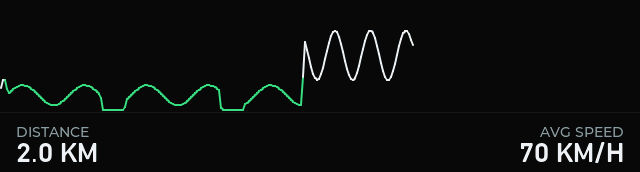
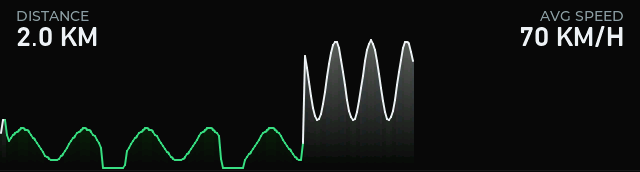
PWR graph: full screen with a gradient under the line, stats on top
Claude-Session: https://claude.ai/code/session_01Wi2gejHosTK5x8mYaniNJT

diff --git a/firmware/src/ui/efficiency_ui.cpp b/firmware/src/ui/efficiency_ui.cpp
@@ -19,16 +19,24 @@ constexpr int16_t kEdgeMargin = 16;
 // was electric (regen included -- it is drawn at zero, but it is the pack's
 // time), white where the engine was driving. PwrHistory keeps the session in
 // kCapacity points however long it runs, so each point gets kPointStepX
-// pixels and a full buffer spans the screen edge to edge.
+// pixels and a full buffer spans the screen edge to edge. The plot takes the
+// whole screen; the stats sit over its top corners.
 constexpr int16_t kPointStepX = kScreenW / PwrHistory::kCapacity;
-constexpr int16_t kGraphTop = 10;
-constexpr int16_t kGraphBase = 110; // y of a zero reading
+constexpr int16_t kGraphTop = 8;
+constexpr int16_t kGraphBase = 168; // y of a zero reading
 constexpr int16_t kLineW = 2;
 
-// Stat rows, unchanged from the split layout: montserrat_14 captions over
-// dinnext_28_stat values, in the two bottom corners.
-constexpr int16_t kStatCaptionY = 124;
-constexpr int16_t kStatValueY = 142;
+// The area under the line fades from kFillMaxMix (0..255 share of the line's
+// colour, at the plot's top) down to the plain background at the zero line.
+// The fade is tied to screen height, not to each column's own height, so the
+// whole area reads as one gradient. LVGL 8.3 has no per-stop opacity, but the
+// background is a solid colour, so mixing towards it gives the same result.
+constexpr uint8_t kFillMaxMix = 120;
+
+// Stat rows: montserrat_14 captions over dinnext_28_stat values, in the two
+// top corners.
+constexpr int16_t kStatCaptionY = 8;
+constexpr int16_t kStatValueY = 26;
 
 lv_obj_t *g_graph = nullptr;
 lv_obj_t *g_distanceValue = nullptr;
@@ -82,9 +90,43 @@ bool electric(const PwrHistory::Bucket &b) {
     return b.evPct >= 50;
 }
 
-// One segment per pair of neighbouring points, coloured by the point it runs
-// into, so the colour changes exactly where the drive mode did. Round caps
-// close the joints between segments of different slope.
+lv_color_t colorOf(const PwrHistory::Bucket &b) {
+    return electric(b) ? Colors::kEvGreen : Colors::kPwrWhite;
+}
+
+// One gradient column per point, from the line down to the zero line.
+void drawFill(lv_draw_ctx_t *ctx, const lv_area_t &origin, int i, const PwrHistory::Bucket &b) {
+    lv_point_t p = pointAt(origin, i, b);
+    lv_coord_t base = static_cast<lv_coord_t>(origin.y1 + kGraphBase);
+    if (p.y >= base) return; // nothing under a zero reading
+
+    lv_area_t col;
+    col.x1 = static_cast<lv_coord_t>(origin.x1 + i * kPointStepX);
+    col.x2 = static_cast<lv_coord_t>(col.x1 + kPointStepX - 1);
+    col.y1 = p.y;
+    col.y2 = base;
+
+    uint8_t mix = static_cast<uint8_t>(static_cast<int32_t>(kFillMaxMix) * (base - p.y) /
+                                       (kGraphBase - kGraphTop));
+    lv_color_t top = lv_color_mix(colorOf(b), Colors::kBg, mix);
+
+    lv_draw_rect_dsc_t dsc;
+    lv_draw_rect_dsc_init(&dsc);
+    dsc.bg_opa = LV_OPA_COVER;
+    dsc.bg_color = top;
+    dsc.bg_grad.dir = LV_GRAD_DIR_VER;
+    dsc.bg_grad.stops_count = 2;
+    dsc.bg_grad.stops[0].color = top;
+    dsc.bg_grad.stops[0].frac = 0;
+    dsc.bg_grad.stops[1].color = Colors::kBg;
+    dsc.bg_grad.stops[1].frac = 255;
+    lv_draw_rect(ctx, &dsc, &col);
+}
+
+// The gradient first, then the line over it: one segment per pair of
+// neighbouring points, coloured by the point it runs into, so the colour
+// changes exactly where the drive mode did. Round caps close the joints
+// between segments of different slope.
 void drawGraph(lv_event_t *e) {
     lv_obj_t *obj = lv_event_get_target(e);
     lv_draw_ctx_t *ctx = lv_event_get_draw_ctx(e);
@@ -103,12 +145,16 @@ void drawGraph(lv_event_t *e) {
     int total = n + (hasOpen ? 1 : 0);
     if (total < 2) return;
 
+    for (int i = 0; i < total; i++) {
+        drawFill(ctx, origin, i, (i < n) ? PwrHistory::at(i) : openBucket);
+    }
+
     PwrHistory::Bucket prev = PwrHistory::at(0);
     lv_point_t prevPt = pointAt(origin, 0, prev);
     for (int i = 1; i < total; i++) {
         PwrHistory::Bucket cur = (i < n) ? PwrHistory::at(i) : openBucket;
         lv_point_t curPt = pointAt(origin, i, cur);
-        dsc.color = electric(cur) ? Colors::kEvGreen : Colors::kPwrWhite;
+        dsc.color = colorOf(cur);
         lv_draw_line(ctx, &dsc, &prevPt, &curPt);
         prevPt = curPt;
     }
@@ -128,17 +174,18 @@ void build(lv_obj_t *parent) {
     // Zero line, just under where a zero reading's stroke sits.
     makeRect(root, 0, kGraphBase + kLineW, kScreenW, 1, Colors::kBarTrack);
 
-    // The graph object spans the plot's full height plus room for the
-    // stroke, so the line's caps are never clipped at the top or bottom.
+    // The graph object spans the whole screen, which leaves room for the
+    // stroke's caps above the top and below the zero line.
     g_graph = lv_obj_create(root);
     lv_obj_remove_style_all(g_graph);
-    lv_obj_set_size(g_graph, kScreenW, kGraphBase + kLineW);
+    lv_obj_set_size(g_graph, kScreenW, kScreenH);
     lv_obj_set_pos(g_graph, 0, 0);
     lv_obj_clear_flag(g_graph, LV_OBJ_FLAG_SCROLLABLE);
     lv_obj_clear_flag(g_graph, LV_OBJ_FLAG_CLICKABLE);
     lv_obj_add_event_cb(g_graph, drawGraph, LV_EVENT_DRAW_MAIN, nullptr);
 
-    // The two session stats keep the bottom corners, one per side.
+    // The two session stats take the top corners, one per side. Created after
+    // the graph so they stay on top when the line runs up under them.
     makeLabel(root, "DISTANCE", &lv_font_montserrat_14, Colors::kMutedText, kEdgeMargin,
               kStatCaptionY, AnchorLeft);
     g_distanceValue = makeLabel(root, "0.0 KM", &dinnext_28_stat, Colors::kText, kEdgeMargin,

diff --git a/README.md b/README.md
@@ -46,13 +46,13 @@ CHG/PWR power flow on the right.
 
 ### 📊 Efficiency
 
-The whole drive's PWR demand as one line, on the same scale as the cockpit's
-power gauge: green where the car was electric, white where the engine was
-driving. Regen is drawn at zero and counts as electric. The line always spans
+The whole drive's PWR demand as one full-screen line, on the same scale as
+the cockpit's power gauge, with a gradient fading down beneath it: green where
+the car was electric, white where the engine was driving. Regen is drawn at zero and counts as electric. The line always spans
 the entire session — once it reaches the right edge, neighbouring points are
 merged in pairs and it keeps going at half the time resolution, so memory and
-redraw cost stay fixed however long the trip. Distance and average speed keep
-the bottom corners.
+redraw cost stay fixed however long the trip. Distance and average speed sit in
+the top corners.
 
 ![Efficiency](https://github.com/fellettigiacomo/toyota-yaris-3rd-gen-virtual-cockpit/blob/main/firmware/sim/screenshot/screenshots/03_efficiency.png?raw=true)
 
